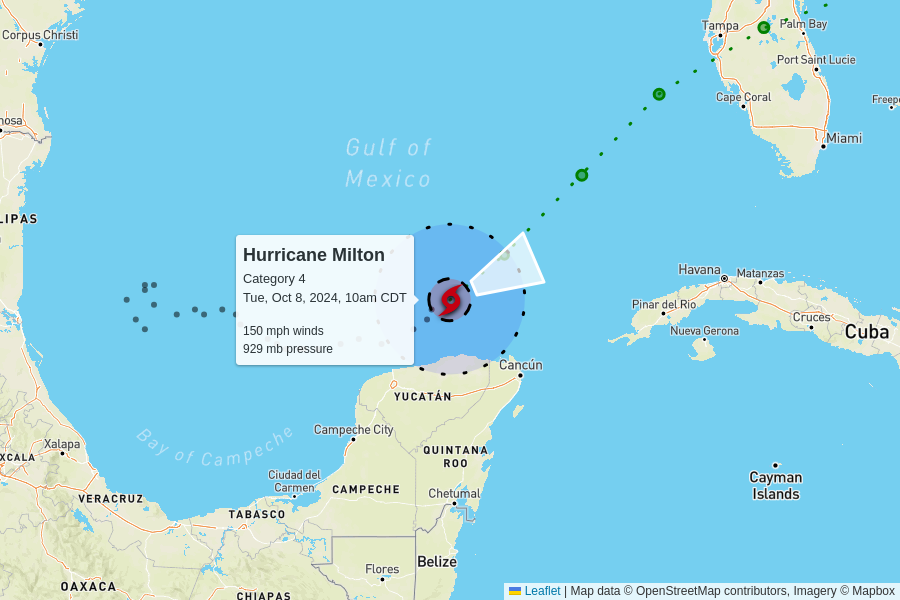
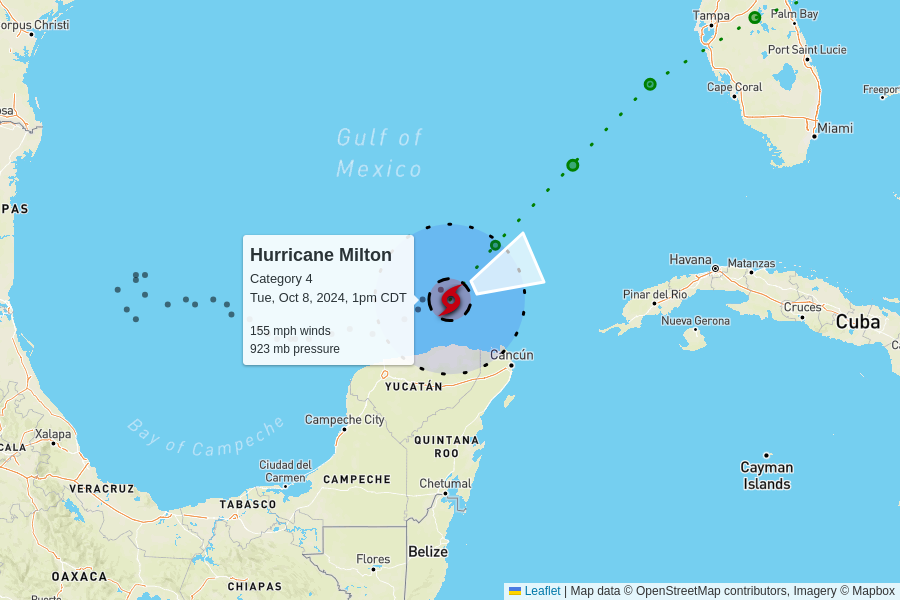
automatic update

diff --git a/docs/index.html b/docs/index.html
@@ -101,6 +101,50 @@
 
     <table>
       <tr>
+        <td colspan="6" class="storm category-4" >
+          <h2>
+            Hurricane Milton - Category 4
+            <p class="updated">last updated <span data-time>2024-10-08T18:00:00.000Z</span></p>
+          </h2>
+        </td>
+      </tr>
+      
+      <tr>
+        <th class="spacer"></th>
+        <th>wind speed</th>
+        <th>central pressure</th>
+        <th>movement</th>
+        <th>data (CSV)</th>
+        <th>National Hurricane Center</th>
+      </tr>
+      <tr>
+        <td class="spacer"></td>
+        <td>155 mph<br>+5 mph since last update</td>
+        <td>923 mb<br>-6 mb since last update</td>
+        <td>
+          8 mph to the east-northeast
+          <br/>
+          <span style="display: inline-block; font-size: 1.5em; transform: rotate(65deg);">↑</span>
+        </td>
+        <td><a href="https://raw.githubusercontent.com/mgwalker/atlantic-hurricanes/main/data/csv/AL142024.csv">AL142024.csv</a></td>
+        <td><a href="https://www.nhc.noaa.gov/archive/2024/MILTON.shtml?">NHC advisories</a></td>
+      </tr>
+      <tr id="storm_AL142024" >
+        <td class="spacer">
+        <td colspan="5">
+          <figure>
+            <img src="AL142024.png">
+            <figcaption>
+              Map data &copy; <a href="https://www.openstreetmap.org/copyright">OpenStreetMap</a> contributors,
+              Imagery &copy; <a href="https://www.mapbox.com/">Mapbox</a> |
+              <a href="https://www.mapbox.com/map-feedback/" target="_blank">Improve this map</a>
+            </figcaption>
+          </figure>
+        </td>
+      </tr>
+      
+
+      <tr>
         <td colspan="6" class="storm category-0" >
           <h2>
             Tropical Storm Leslie
@@ -134,50 +178,6 @@
         <td colspan="5">
           <figure>
             <img src="AL132024.png">
-            <figcaption>
-              Map data &copy; <a href="https://www.openstreetmap.org/copyright">OpenStreetMap</a> contributors,
-              Imagery &copy; <a href="https://www.mapbox.com/">Mapbox</a> |
-              <a href="https://www.mapbox.com/map-feedback/" target="_blank">Improve this map</a>
-            </figcaption>
-          </figure>
-        </td>
-      </tr>
-      
-
-      <tr>
-        <td colspan="6" class="storm category-4" >
-          <h2>
-            Hurricane Milton - Category 4
-            <p class="updated">last updated <span data-time>2024-10-08T15:00:00.000Z</span></p>
-          </h2>
-        </td>
-      </tr>
-      
-      <tr>
-        <th class="spacer"></th>
-        <th>wind speed</th>
-        <th>central pressure</th>
-        <th>movement</th>
-        <th>data (CSV)</th>
-        <th>National Hurricane Center</th>
-      </tr>
-      <tr>
-        <td class="spacer"></td>
-        <td>150 mph<br>+5 mph since last update</td>
-        <td>929 mb<br>0 mb since last update</td>
-        <td>
-          9 mph to the east-northeast
-          <br/>
-          <span style="display: inline-block; font-size: 1.5em; transform: rotate(65deg);">↑</span>
-        </td>
-        <td><a href="https://raw.githubusercontent.com/mgwalker/atlantic-hurricanes/main/data/csv/AL142024.csv">AL142024.csv</a></td>
-        <td><a href="https://www.nhc.noaa.gov/archive/2024/MILTON.shtml?">NHC advisories</a></td>
-      </tr>
-      <tr id="storm_AL142024" >
-        <td class="spacer">
-        <td colspan="5">
-          <figure>
-            <img src="AL142024.png">
             <figcaption>
               Map data &copy; <a href="https://www.openstreetmap.org/copyright">OpenStreetMap</a> contributors,
               Imagery &copy; <a href="https://www.mapbox.com/">Mapbox</a> |
